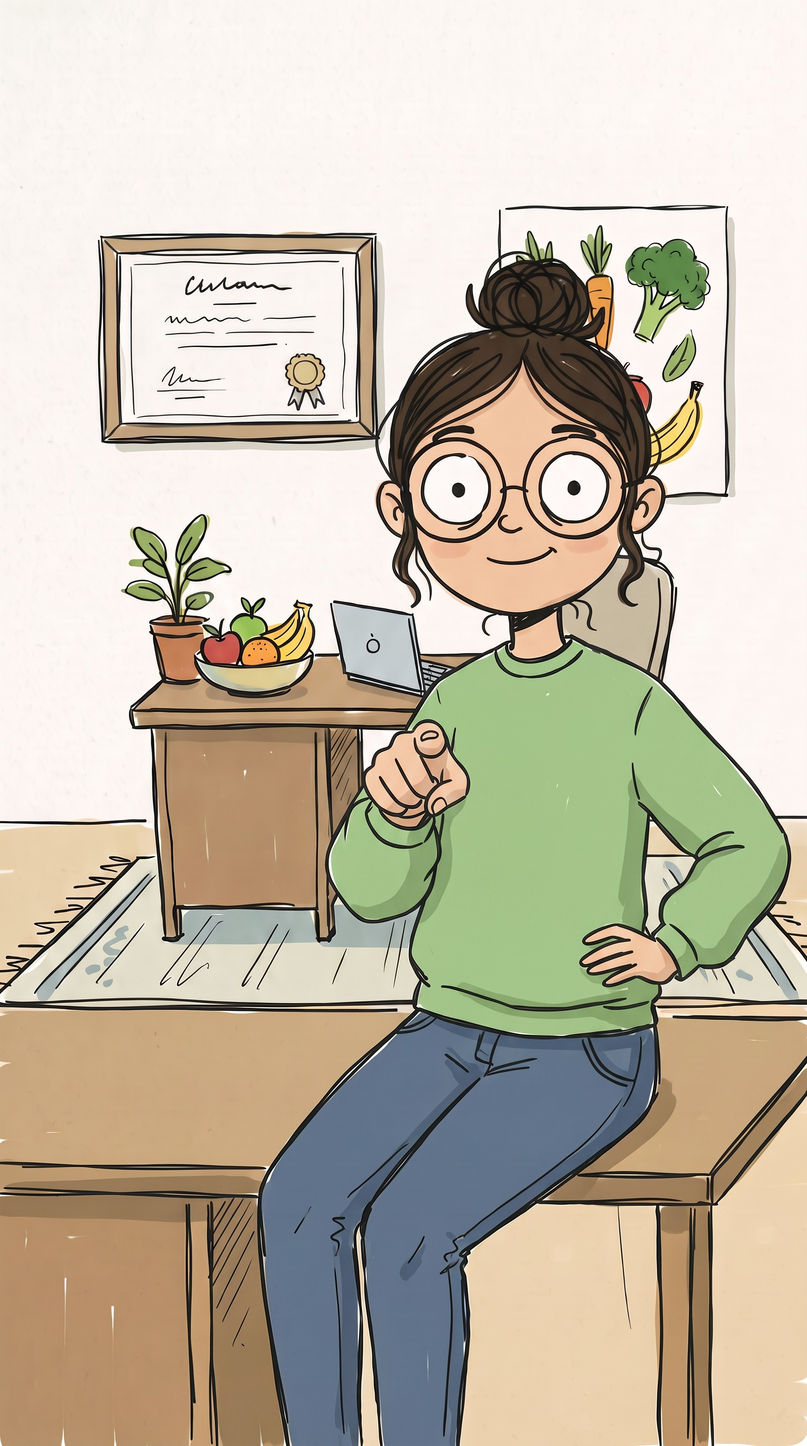
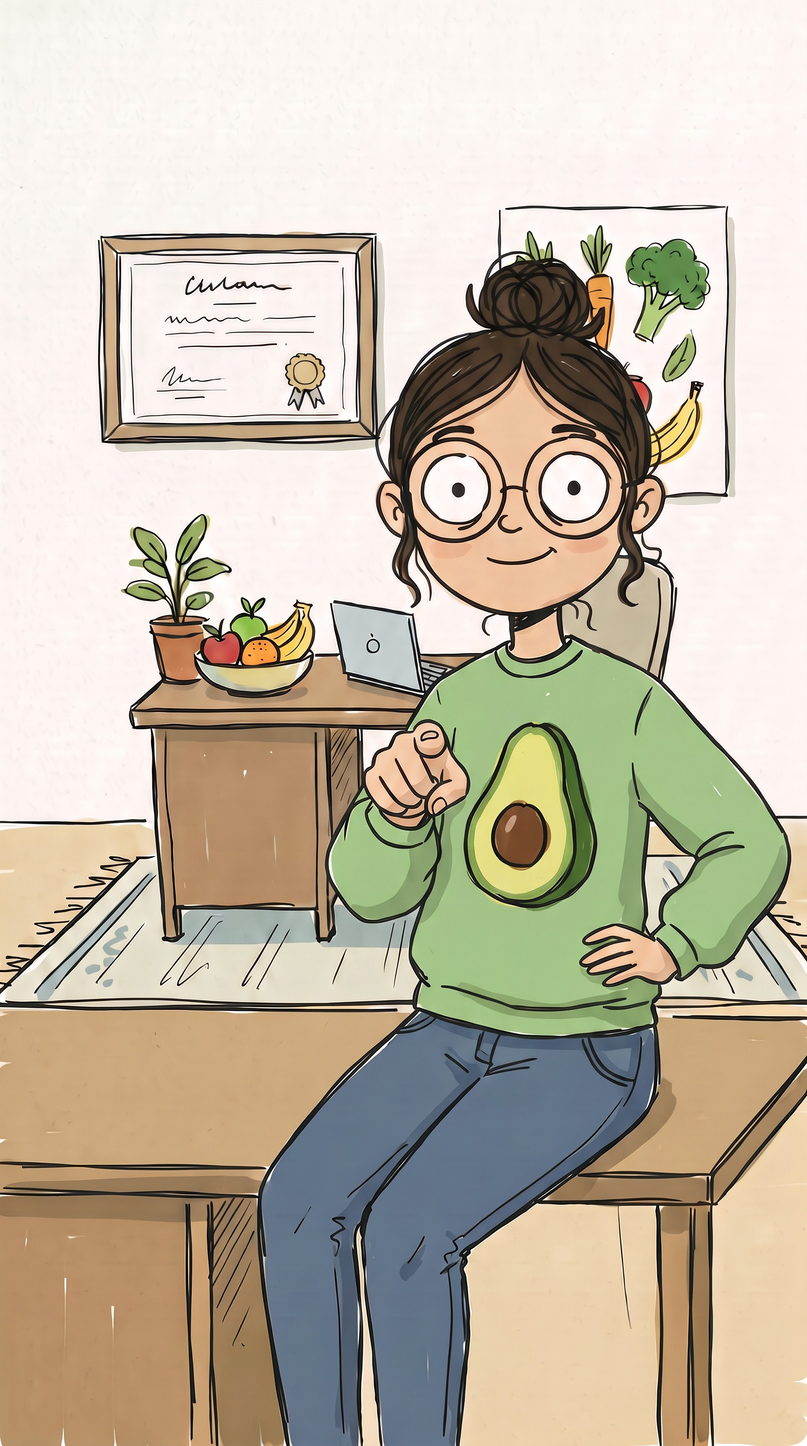
Ana Cardo: más ángulos, súper realista y aguacate en todos los planos
Claude-Session: https://claude.ai/code/session_01W1d2B3tJHY5s1jRup8PdJX

diff --git a/herramientas/video/ana_cardo/plan.py b/herramientas/video/ana_cardo/plan.py
@@ -59,9 +59,9 @@ P = [
     # «Y mi tía… solo piña… La cartera»: la cartera vacía
     esc('es_tia', T('y') - c, ['es_tia', 'es_tia_b'], cambios=[ch(T('cartera') - c, 'es_tia_b')]),
     # «Así que pensé: voy a estudiar esto… por fin tendré razón»: puño de triunfo en «por fin»
-    esc('es_estudia', T('así') - c, ['es_estudia', 'es_estudia_b'], cambios=[ch(T('fin') - 0.25, 'es_estudia_b')]),
+    esc('es_estudia2', T('así') - c, [], cambios=[ch(T('fin') - 0.25, 'es_estudia2_b')]),   # de lado estudiando (voz en off); se gira en «por fin»
     # «Cuatro años de carrera. Un máster»: el segundo título en «máster»
-    esc('es_grad', T('cuatro') - c, ['es_grad', 'es_grad_b'], cambios=[ch(T('un') - c, 'es_grad_b')],
+    esc('es_grad2', T('cuatro') - c, ['es_grad2'], cambios=[ch(T('un') - c, 'es_grad2_b')],
         bocas_fix=True,
         rotulos=[R(T('cuatro') - 0.1, '4 AÑOS', 1620, 'negro', 120, T('un') - 0.1), R(T('un') - 0.1, '+ MÁSTER', 1620, 'rojo', 120)]),
     # «Y en la primera Navidad con el título, mi tío: eso lo dirás tú, pero en la tele…»: el tío insiste
@@ -69,14 +69,13 @@ P = [
     # «La tele. Que se ha sacado la carrera en anuncios de yogures»: la tele con birrete
     esc('br_tele', T('tele', 1) - 0.2, [], alterna=alt('br_tele', 'br_tele_b', 0.5)),
     # «Y claro, cuando te dedicas a esto, empiezas a fijarte en cosas»: con la lupa; en «cosas» la baja
-    esc('es_lupa', T('claro,') - 0.2 if False else T('y', 4) - c, ['es_lupa', 'es_lupa_b'], cambios=[ch(T('cosas') - c, 'es_lupa_b')]),
+    esc('es_lupa2', T('y', 4) - c, ['es_lupa2'], cambios=[ch(T('cosas') - c, 'es_lupa2_b')]),
     # «Como que el yogur cero por ciento tenga más azúcar que un dónut, pero con una vaca sonriendo»
-    esc('es_yogur', T('como') - c, ['es_yogur'], cambios=[ch(T('vaca') - c, 'es_yogur_b')],
+    esc('es_yogur2', T('como') - c, ['es_yogur2', 'es_yogur2_b'], cambios=[ch(T('vaca') - c, 'es_yogur2_b')],
         rotulos=[R(T('cero') - 0.1, '0 %', 1620, 'azul', 150, T('más') - 0.1),
                  R(T('más') - 0.1, 'MÁS AZÚCAR', 1620, 'rojo', 120, T('vaca') - 0.1)]),
     # «O que en el súper lo sano esté abajo y las galletas a la altura de los ojos»: las galletas brillan
-    esc('es_estante', T('o') - c, ['es_estante', 'es_estante_b'],
-        alterna=alt('es_estante', 'es_estante_b', 0.3, desde=T('galletas') - c)),
+    esc('es_cereal', T('o') - c, ['es_cereal'], cambios=[ch(T('galletas') - c, 'es_cereal_b')]),   # pasillo de cereales realista
     # «Pues de eso voy a hablar aquí. De lo que comemos, de lo que nos venden y de lo que nos creemos»
     esc('es_habla', T('pues') - c, ['es_habla', 'es_habla_come', 'es_habla_vende', 'es_habla_cree'],
         cambios=[ch(T('comemos,') - c if False else T('comemos') - c, 'es_habla_come'),
@@ -92,11 +91,16 @@ from PIL import Image as _Im
 import numpy as _np
 
 
+CARA_FIJA = {'es_estudia2_b': (0.64, 0.5)}   # dibujos sin boca: centro de su cara a mano
+
+
 def cara(fondo):
     import os
     alias = {'es_jajas': 'es_sigue', 'es_habla_come': 'es_habla', 'es_habla_vende': 'es_habla', 'es_habla_cree': 'es_habla'}
     n = os.path.basename(fondo)[:-4]
     n = alias.get(n, n)
+    if n in CARA_FIJA:
+        return CARA_FIJA[n]
     while not os.path.exists(f'img/{n}_boca.png') and '_' in n[3:]:
         n = n.rsplit('_', 1)[0]
     b = f'img/{n}_boca.png'

diff --git a/herramientas/video/ana_cardo/preparar.py b/herramientas/video/ana_cardo/preparar.py
@@ -7,12 +7,15 @@ from PIL import Image, ImageFilter
 from scipy import ndimage as ndi
 
 ELEGIDOS = ['es_consulta_1', 'es_familia_1', 'es_estudia_1', 'es_grad_1', 'es_lupa_1', 'es_yogur_1', 'es_estante_2',
-            'br_tele_2', 'es_madre_1', 'es_padre_1', 'es_abuela_2', 'es_tia_1', 'es_navidad_2', 'es_habla_1']
+            'br_tele_2', 'es_madre_1', 'es_padre_1', 'es_abuela_2', 'es_tia_1', 'es_navidad_2', 'es_habla_1',
+            'es_estudia2_2', 'es_grad2_2', 'es_lupa2_2', 'es_yogur2_2', 'es_cereal_1']
 BASES = {e.rsplit('_', 1)[0]: e for e in ELEGIDOS}
-TAL_CUAL = {'es_sigue': 'es_sigue_1', 'es_jajas': 'es_jajas_1', 'es_estudia_b': 'es_estudia_b', 'es_yogur_b': 'es_yogur_b'}  # estos movieron el encuadre: enteros
+TAL_CUAL = {'es_sigue': 'es_sigue_1', 'es_jajas': 'es_jajas_1', 'es_estudia_b': 'es_estudia_b', 'es_yogur_b': 'es_yogur_b',
+            'es_estudia2_b': 'es_estudia2_b', 'es_grad2_b': 'es_grad2_b', 'es_lupa2_b': 'es_lupa2_b', 'es_cereal_b': 'es_cereal_b',
+            'es_habla_vende': 'es_habla_vende3', 'es_habla_come': 'es_habla_come2', 'es_sigue': 'es_sigue2'}  # estos movieron el encuadre: enteros
 VARIANTES = {'es_consulta_b': 'es_consulta', 'es_consulta_c': 'es_consulta', 'es_grad_b': 'es_grad', 'br_tele_b': 'br_tele', 'es_lupa_b': 'es_lupa',
              'es_estante_b': 'es_estante', 'es_tia_b': 'es_tia', 'es_madre_b': 'es_madre', 'es_abuela_b': 'es_abuela',
-             'es_navidad_b': 'es_navidad', 'es_habla_come': 'es_habla', 'es_habla_vende': 'es_habla',
+             'es_navidad_b': 'es_navidad', 'es_yogur2_b': 'es_yogur2',
              'es_habla_cree': 'es_habla'}
 os.makedirs('img', exist_ok=True)
 
